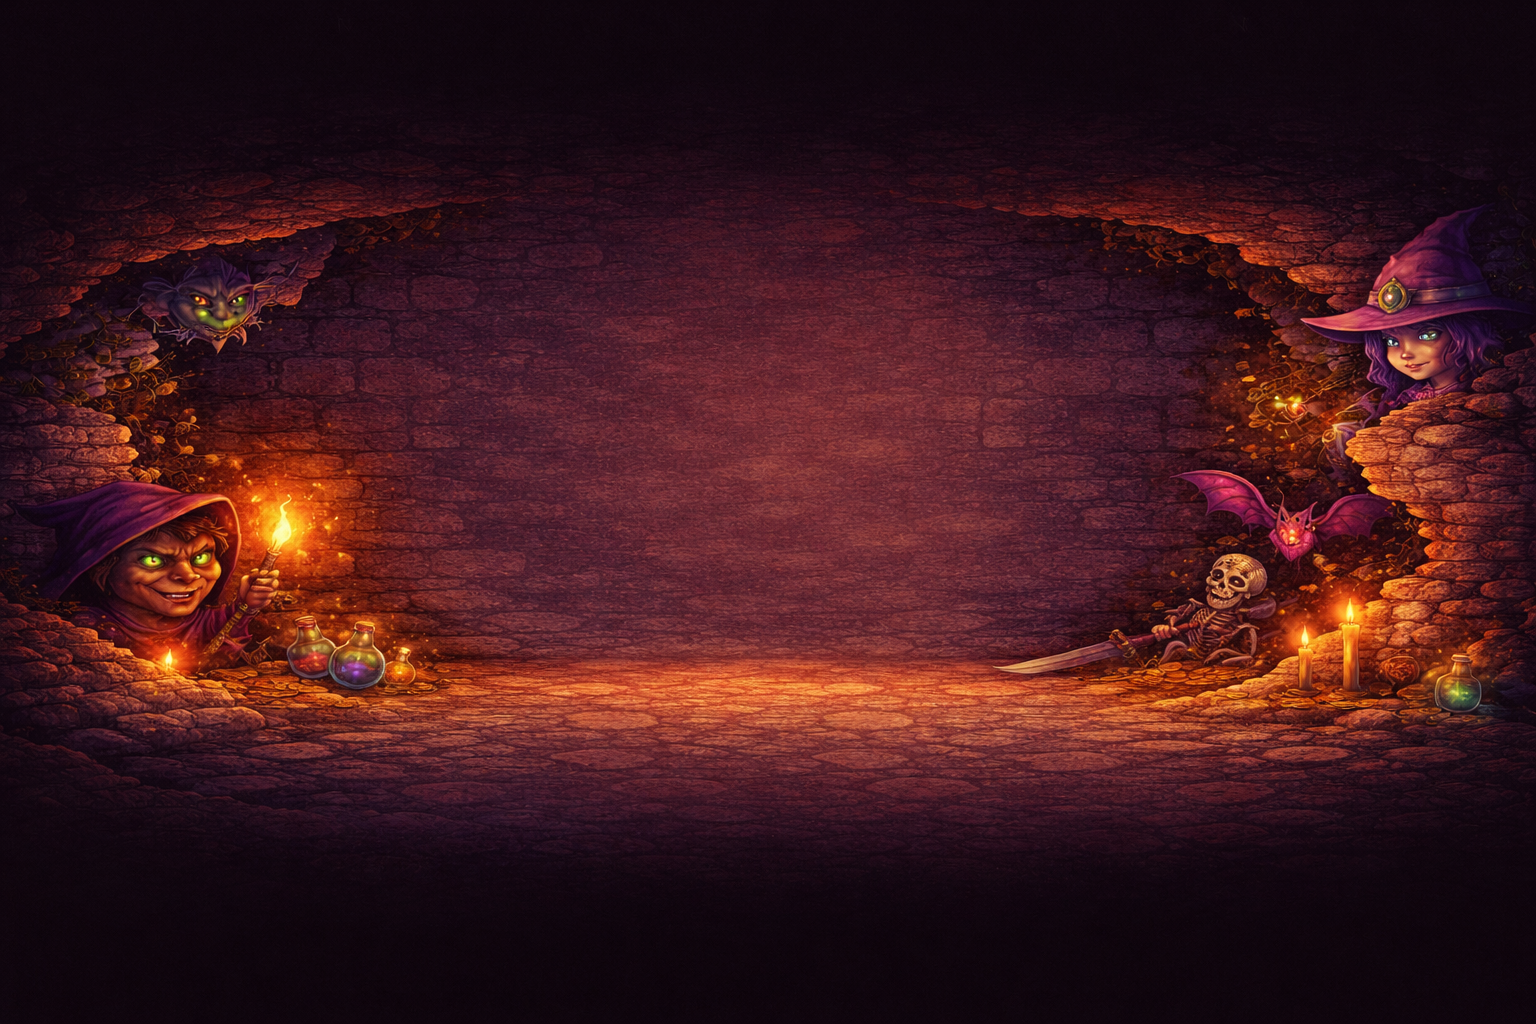
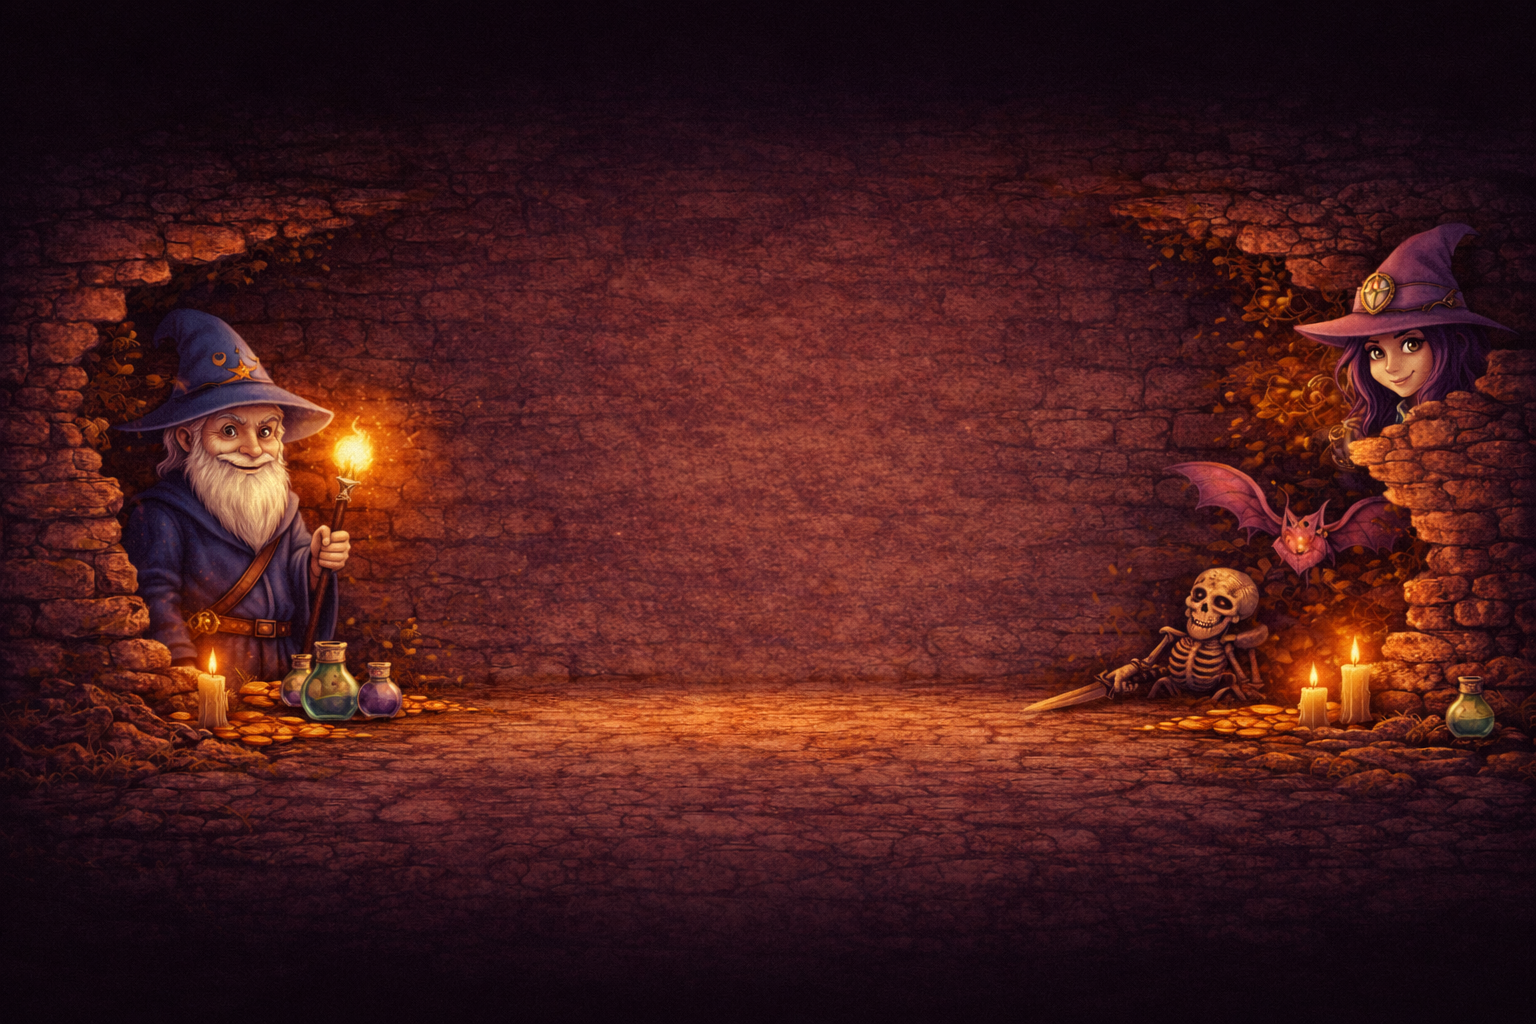
Add files via upload

diff --git a/style_additions.css b/style_additions.css
@@ -88,14 +88,14 @@
 .category-card a, .card a{display:block;text-align:center;}
 .category-card button{border:0;padding:10px 18px;border-radius:10px;cursor:pointer;font-weight:700;background:#00775f;color:#fff;}
 
-/* ===== Hero fantasy final wide banner ===== */
+/* ===== Hero fantasy fit-check version ===== */
 .hero{
-  padding: 26px 20px 22px !important;
-  min-height: 0 !important;
+  padding: 18px 20px 18px !important;
+  min-height: 360px !important;
   background:
-    linear-gradient(rgba(10,12,18,0.14), rgba(10,12,18,0.14)),
-    url("assets/hero-fantasy-full.png") center center / cover no-repeat !important;
-  background-color: #1a1219 !important;
+    linear-gradient(rgba(10,12,18,0.10), rgba(10,12,18,0.10)),
+    url("assets/hero-fantasy-full.png") center center / contain no-repeat !important;
+  background-color: #1b1219 !important;
 }
 
 .hero h1,
@@ -107,14 +107,14 @@
 .hero p{
   margin: 0 auto 4px !important;
   max-width: 980px;
-  line-height: 1.22;
+  line-height: 1.20;
   text-shadow: 0 1px 4px rgba(0,0,0,0.35);
 }
 
 .hero-disclaimer{
   margin: 0 auto 8px !important;
   max-width: 980px;
-  line-height: 1.22;
+  line-height: 1.20;
   text-shadow: 0 1px 4px rgba(0,0,0,0.35);
 }
 
